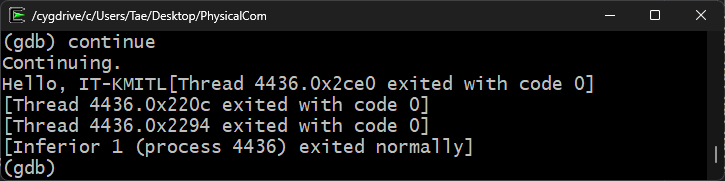
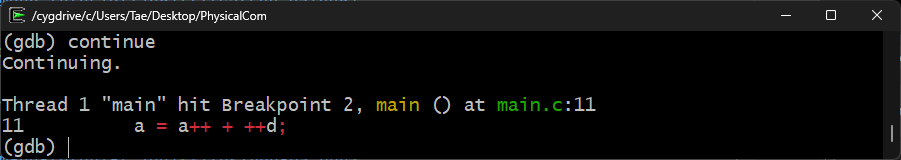
Added Images

diff --git a/labs/labs03-gdb/readme.md b/labs/labs03-gdb/readme.md
@@ -142,6 +142,7 @@ int main() {
    gdb main
    ```
    เมื่อเรียกใช้ gdb จะพบหน้าต่างดังรูป โดยเราสามารถพิมพ์คำสั่งต่อจาก `(gdb)` ได้เลย
+
    ![gdb-command-tutorial.jpg](files/run-00.png)
 
    เราสามารถใช้คำสั่ง list ในการแสดงโค้ดรอบๆ โดยการใช้งานคำสั่ง list สามารถใช้ได้ดังรูปแบบนี้
@@ -163,6 +164,7 @@ int main() {
    อีกรอบจะเกิด
    error แบบนี้
    ![gdb-command-tutorial.jpg](files/run-00-list02.png)
+
    นั่นก็เพราะว่าเราได้เรียกคำสั่ง list
    ไปจนถึงคำสั่งสุดท้ายแล้วและเมื่อเรียกอีกมันก็ไม่สามารถเรียกได้เพราะว่าโค้ดได้สิ้นสุดแล้ว วิธีแก้เลยคือต้องเติม
    Argument
@@ -170,6 +172,7 @@ int main() {
    ```gdb
    (gdb) list 0
    ```
+   
    ![gdb-command-tutorial.jpg](files/run-00-list03.png)
 
 
@@ -188,11 +191,27 @@ int main() {
     * **ที่อยู่หน่วยความจำ:** GDB จะหยุดการทำงานเมื่อมีการเข้าถึงที่อยู่หน่วยความจำนั้น
     * **เงื่อนไข:** GDB จะหยุดการทำงานเมื่อเงื่อนไขเป็นจริง เช่น `break main if i == 10`
 
-   คำสั่งด้านล่างใช้สำหรับสร้าง breakpoint ที่บรรทัดที่ 6
+   ให้น้องลองเขียนคำสั่งที่ใช้สำหรับสร้าง breakpoint ที่บรรทัดที่ 6 และ 11
    
    ```gdb
-   break 6
+   (gdb) break 6
+   (gdb) break 11
    ```
+   เมื่อเราสร้าง breakpoint ขึ้นมาแล้ว เราสามารถเช็ค breakpoint ทั้งหมดได้จากการรันคำสั่ง `info breakpoints`
+   คำสั่งนี้จะแสดงรายการของ breakpoint ทั้งหมดที่ตั้งค่าไว้ในโปรแกรมที่กำลัง debug อยู่ ข้อมูลที่แสดงจะประกอบไปด้วย:
+
+   * **Breakpoint Number:** หมายเลขลำดับของ breakpoint
+   * **Type:** ประเภทของ breakpoint (เช่น breakpoint ปกติ, watchpoint, catchpoint)
+   * **Disposition:** สถานะหลังจาก breakpoint ถูกกระตุ้น (เช่น keep: เก็บ breakpoint ไว้, delete: ลบ breakpoint)
+   * **Enabled:** สถานะของ breakpoint ว่าทำงานอยู่หรือไม่ (yes/no)
+   * **Address:** ที่อยู่ของ breakpoint ในหน่วยความจำ
+   * **What:** ข้อมูลระบุตำแหน่งของ breakpoint เช่น ชื่อไฟล์และหมายเลขบรรทัด
+
+   ```gdb
+   (gdb) info breakpoints
+   ```
+   ![gdb-command-tutorial.jpg](files/run-00-break01.png)
+   
 
 4. **Run the Program:**
 
@@ -229,10 +248,14 @@ int main() {
    ```
    ![gdb-command-tutorial.jpg](files/run-03.png)
 
-   ให้พิมพ์คำสั่ง `next` เพื่อรันบรรทัดต่อไปและลองตรวจสอบค่าของตัวแปรดู
-   จะสังเกตได้ว่าค่าของตัวแปรนั้นได้เปลี่ยนแปลงจากบรรทัดก่อนหน้า
+   ให้พิมพ์คำสั่ง `step` เพื่อรันบรรทัดต่อไปและลองตรวจสอบค่าของตัวแปรดู
+   จะสังเกตได้ว่าค่าของตัวแปรนั้นได้เปลี่ยนแปลงจากบรรทัดที่ 6 มาต่อที่บรรทัดที่ 7
    ```gdb
-   (gdb) next
+   (gdb) step
+   (gdb) print a
+   (gdb) print b
+   (gdb) print c
+   (gdb) print d
    ```
    ![gdb-command-tutorial.jpg](files/run-04.png)
 
@@ -240,7 +263,47 @@ int main() {
    ```gdb
    (gdb) continue
    ```
+   จะสังเกตได้ว่าโปรแกรมจะทำงานต่อมาจนถึงบรรทัดที่ 11 และได้หยุดการทำงานอีกรอบเพราะว่าเจอจุด breakpoint อีกตัว
+   
    ![gdb-command-tutorial.jpg](files/run-05.png)
+
+   ให้น้องลองเช็คค่าของตรวจแปรทุกตัวดูและลอง step ต่อไปทีละบรรทัดเรื่อยๆ จนกว่าจะจบการทำงาน (ให้ลองพิมพ์คำสั่งเองดูเพื่อให้ได้ผลลัพธ์ตามนี้)
+   ```gdb
+   $1 = 12
+   $2 = 22
+   (gdb) print c
+   $3 = 32
+   (gdb) print d
+   $4 = 66
+   (gdb) step
+   [New Thread 1756.0x1fdc]
+   12          c = ++a + ++c;
+   (gdb) print a
+   $5 = 79
+   (gdb) print b
+   $6 = 22
+   (gdb) print c
+   $7 = 32
+   (gdb) print d
+   $8 = 67
+   (gdb) step
+   14          return 0;
+   (gdb) step
+   15      }
+   (gdb) step
+   0x00007ffe92568093 in cygwin_dll_init () from /usr/bin/cygwin1.dll
+   (gdb) step
+   Single stepping until exit from function cygwin_dll_init,
+   which has no line number information.
+   Hello, IT-KMITL[Thread 1756.0x1b70 exited with code 0]
+   [Thread 1756.0x269c exited with code 0]
+   [Thread 1756.0x2258 exited with code 0]
+   [Thread 1756.0x1fdc exited with code 0]
+   [Inferior 1 (process 1756) exited normally]
+   (gdb)
+
+   ```
+
 
    พิมพ์คำสั่ง `quit` เพื่อออกจาก GDB
    ```gdb
